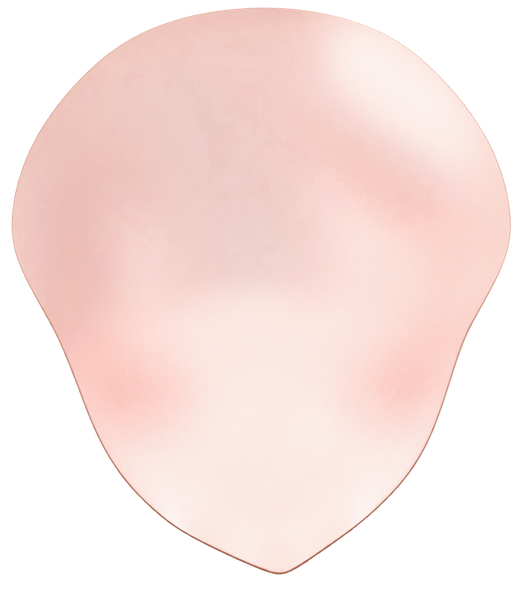
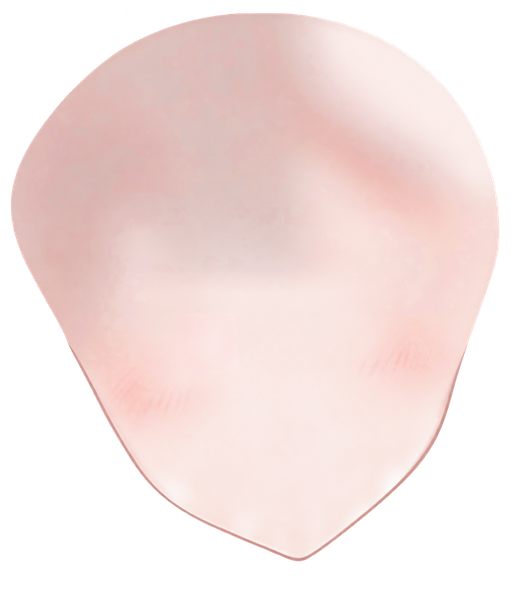
fix(deskpet): register maid face and lashes to original rig

diff --git a/scripts/deskpet/materials/nova-native-20261011/README.md b/scripts/deskpet/materials/nova-native-20261011/README.md
@@ -2,12 +2,14 @@
 
 These PNGs and ordered operation records replace the former compiled-atlas patch script. They were applied through PSD2Live to the editable projects, then exported as complete model/texture sets. Operation paths are relative to this directory; resolve them to absolute paths when using the editor API. Do not apply an atlas UV patch to these exports.
 
-Maid: clean face, neck, natural eyelashes, front/back hair and speaking mouth. Open left eyelash shifted to fit the upper lid; duplicate generated lip meshes hidden. Export uses two 2048 texture pages.
+Maid: clean face, neck, natural eyelashes, front/back hair and speaking mouth. Eyelash textures are registered to the original upper-lid locations; the previous left-lash shift has been reverted. Duplicate generated lip meshes are hidden. Export uses two 2048 texture pages.
 
 Chibi: clean opaque back hair, bonnet fragments, preserved neutral/sleepy eyelashes and closed mouth, simplified speaking mouth, expression-to-speaking transition at MouthOpenY 0.05–0.1. Back hair widened by 2.5% to cover the fine seam.
 
 **User requested rollback: legs, stockings and shoes use the original art and mesh geometry. No leg image replacement or leg deformation is included here.** The Core comparison against the pre-repair committed model reports zero vertex difference for both stockings and both shoes. This proves restoration, not a redesign or repair of any pre-existing seam.
 
-Editable final archives are kept in the companion local art deliverable: `maid-repair-step3.psd2live` and `chibi-repair-original-legs.psd2live`. Earlier chibi step5/sock variants were rejected and must not be installed. The operation records target the original source layer/mesh IDs; they are not a generic model conversion tool.
+Editable final archives are kept in the companion local art deliverable: `maid-repair-alignment-v2.psd2live` and `chibi-repair-original-legs.psd2live`. Earlier chibi step5/sock variants were rejected and must not be installed. The operation records target the original source layer/mesh IDs; they are not a generic model conversion tool.
 
 Generated replacement art uses imagegen; preserved chibi linework was extracted from the existing model. SHA-256 hashes cover all final replacement PNGs. Application motions, expressions, physics and chat data are unchanged.
+
+Facial alignment correction: registered the cleaned face to original raster bounds (522×594, alpha bounds 5,5–517,579), removed its duplicate baked nose while retaining the separate nose mesh, and restored upper-lid texture placement. Replacement lash foregrounds were cropped and placed in the original raster canvases (L 141×96 at y=16; R 132×84 at y=15). Actual Core comparison finds zero vertex difference in all 12 facial meshes against the model before native material repairs. Runtime/model loading tests cannot certify visual quality; the final render set covers 22 expression/pose states.

diff --git a/assets/deskpet/nova/README.md b/assets/deskpet/nova/README.md
@@ -8,7 +8,7 @@
 
 本目录不含 `live2dcubismcore.min.js`。运行时沿用应用数据目录中已配置的 Core 5.x；缺少运行库或显卡不可用时回退到本套立绘。不要把第三方 Core 或示例模型混入本目录。
 
-2026-10-11：通过原生 PSD2Live 工程重新导出女仆与 Q 版，清理头发、睫毛、脸部、脖子和口型的残留。女仆使用两张 2048 贴图。最终替换素材、编辑操作和校验记录见 `scripts/deskpet/materials/nova-native-20261011/`，替代旧版贴图补丁。按用户要求，Q 版腿、袜子、鞋恢复原版素材与网格，保留头发和表情修复。
+2026-10-11：通过原生 PSD2Live 工程重新导出女仆与 Q 版，清理头发、睫毛、脸部、脖子和口型的残留。女仆使用两张 2048 贴图。最终替换素材、编辑操作和校验记录见 `scripts/deskpet/materials/nova-native-20261011/`，替代旧版贴图补丁。按用户要求，Q 版腿、袜子、鞋恢复原版素材与网格，保留头发和表情修复。女仆脸部与睫毛已重新按原图注册对齐，去除脸皮里重复的鼻尖，仅使用独立鼻子；撤回之前睫毛下移补偿。
 
 ## Q 版（chibi）第二版
 
